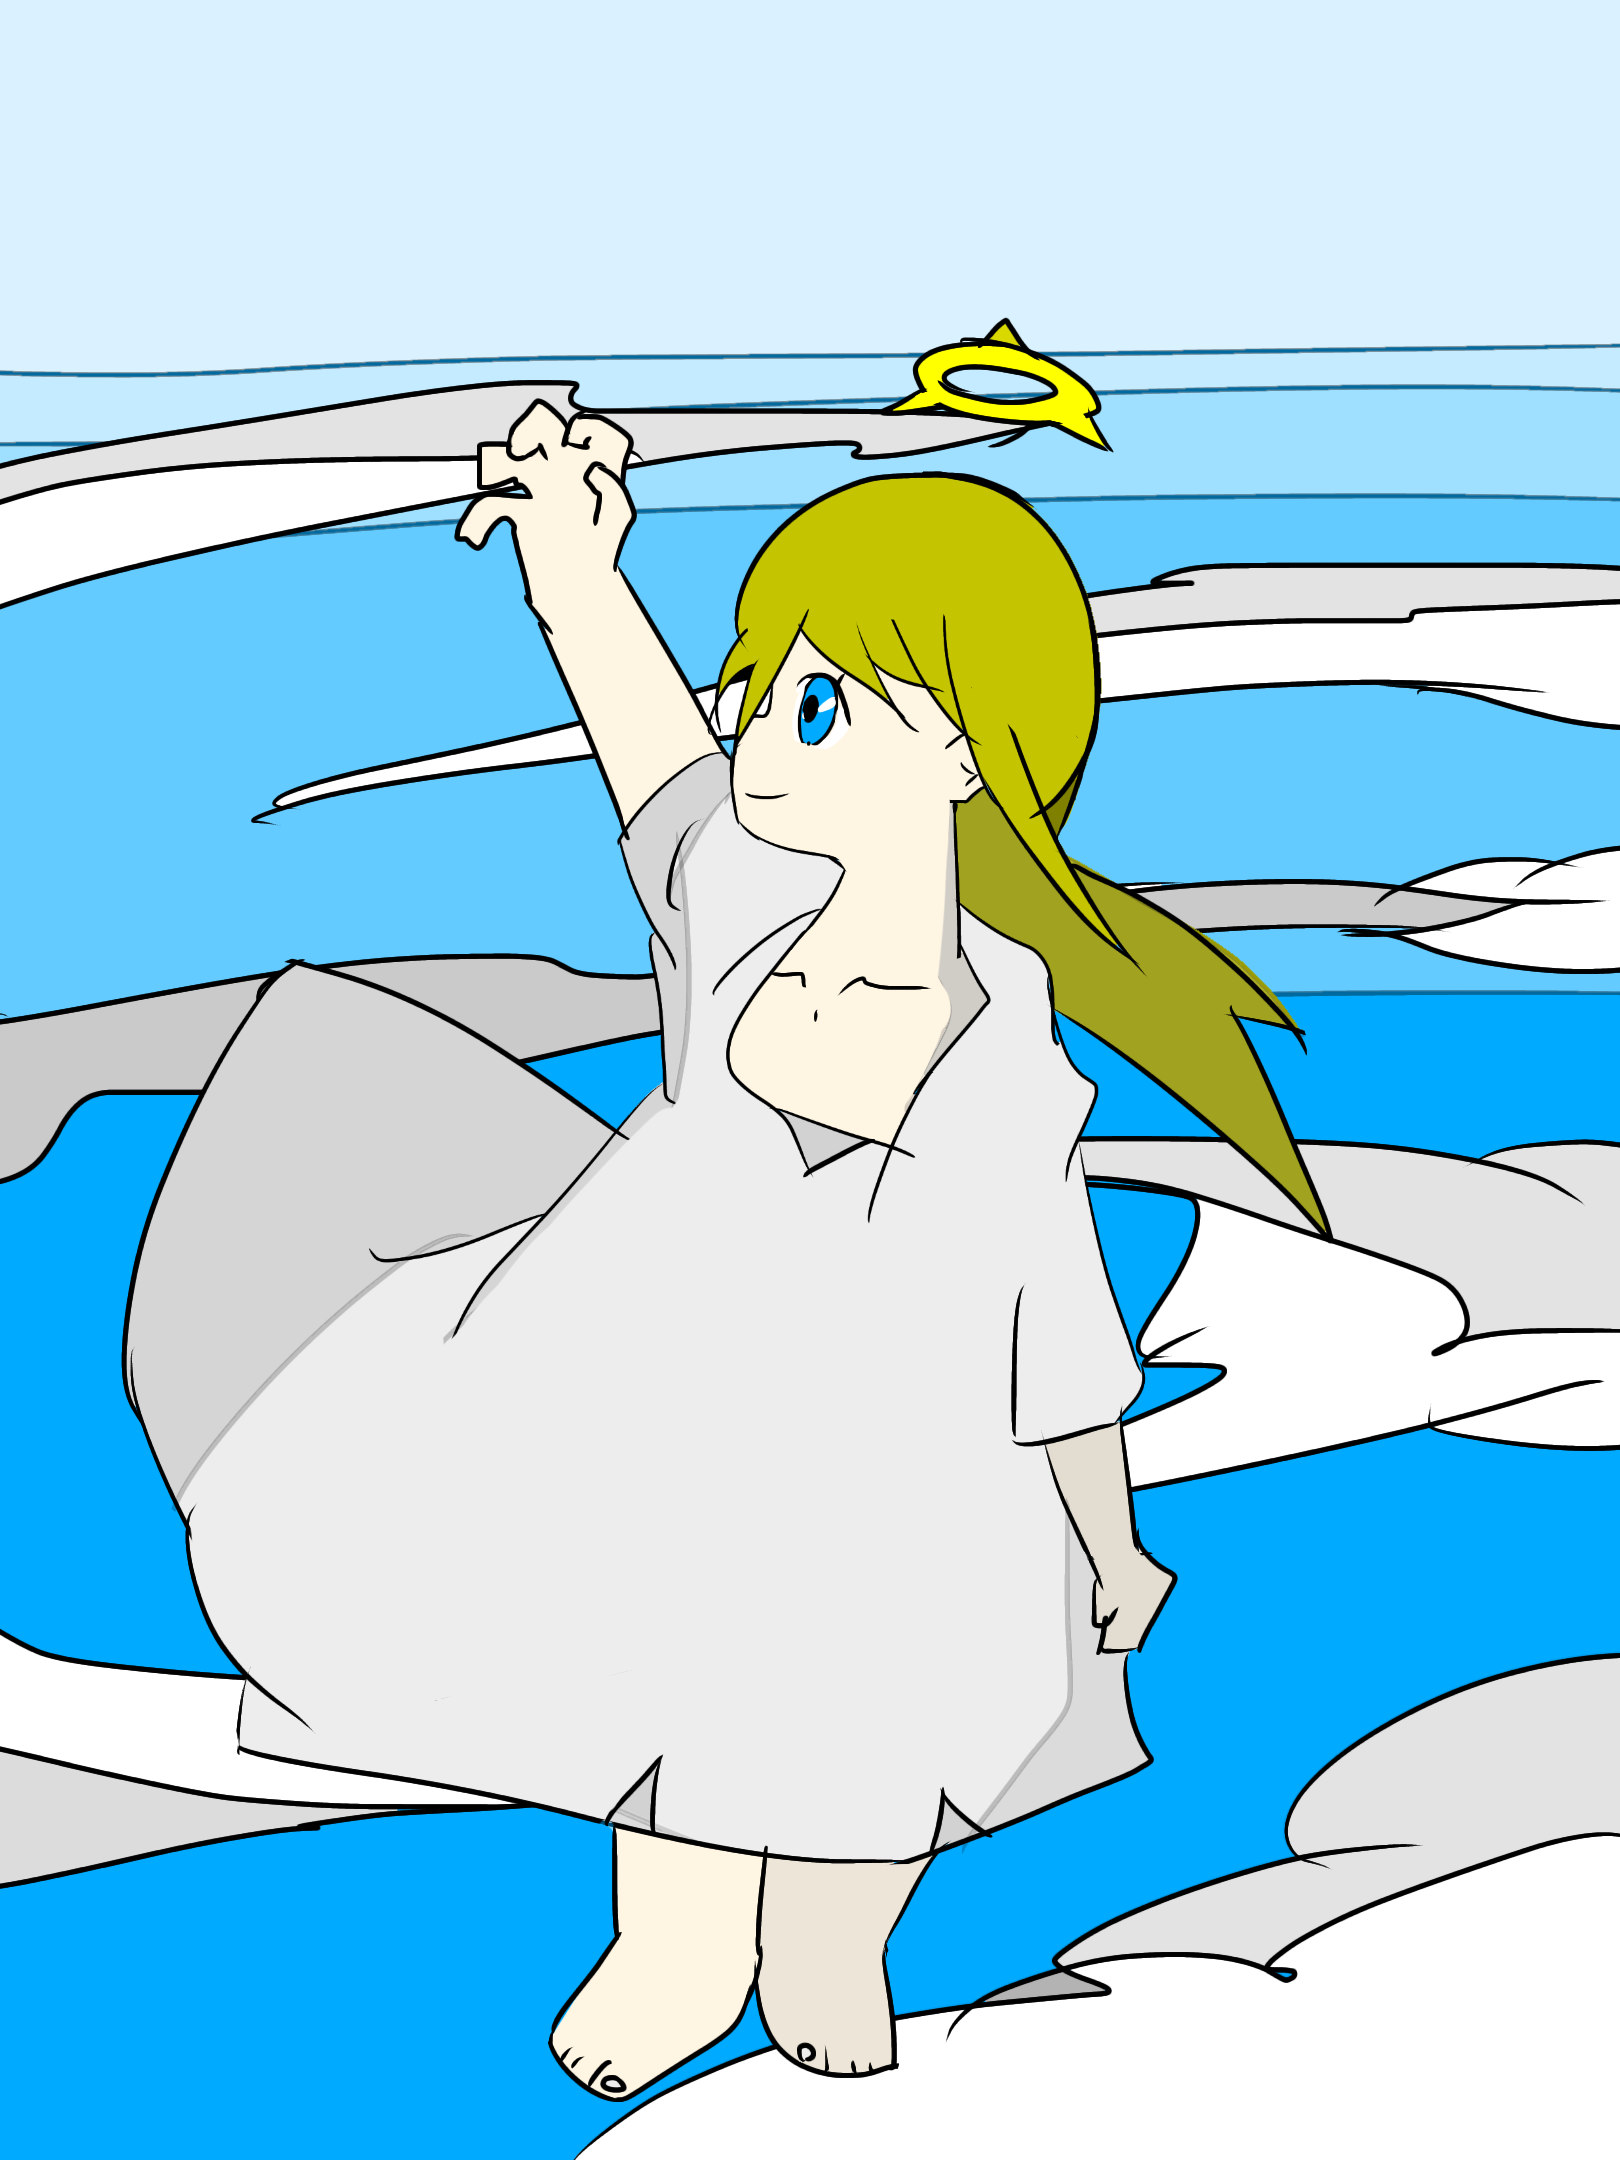
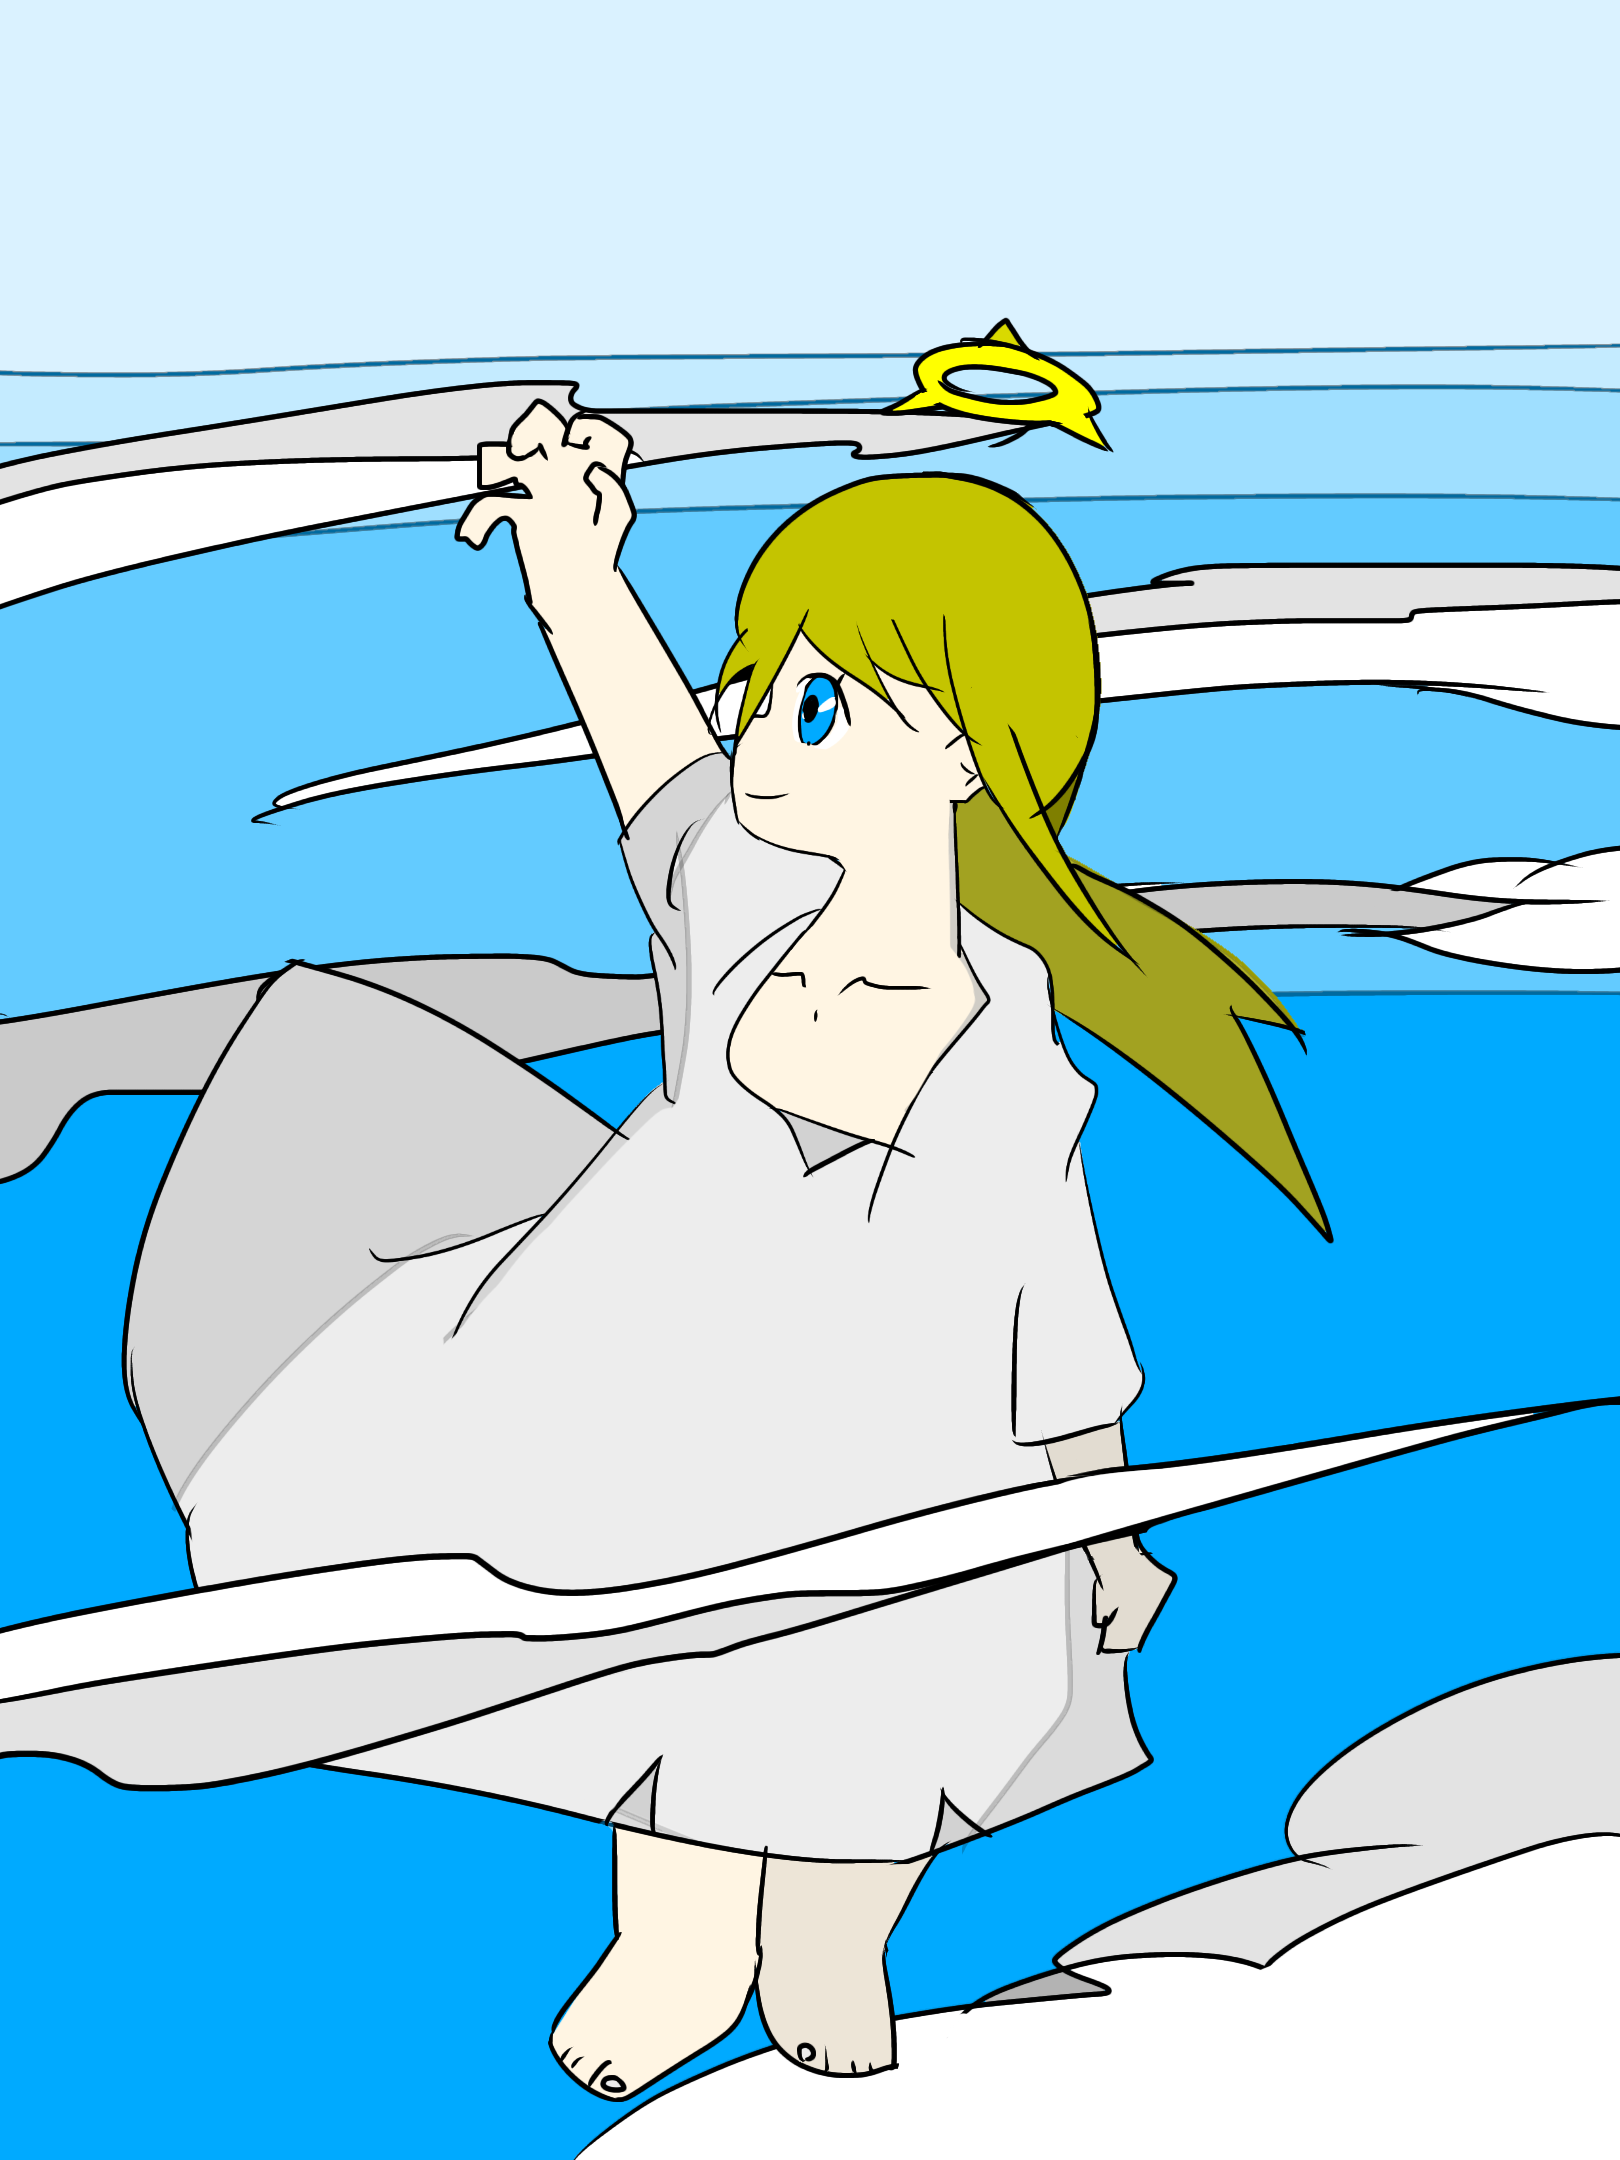
fix

Changed region(s): [[0.0, 0.5273, 1.0, 0.8995], [0.5556, 0.4032, 0.6173, 0.4963], [0.7716, 0.8995, 0.8025, 0.9306]]

diff --git a/layouts/img2/single.html b/layouts/img2/single.html
@@ -31,6 +31,7 @@
 				<a href="/img/yui_24.png"><img src="/img/yui_24.png"></a>
 				<a href="/img/yui_25.png"><img src="/img/yui_25.png"></a>
 				<a href="/img/yui_26.png"><img src="/img/yui_26.png"></a>
+				<a href="/img/yui_27.png"><img src="/img/yui_27.png"></a>
 				<a href="/img/game/i_waza_hadou_01.png"><img src="/img/game/i_waza_hadou_01.png"></a>
 				<a href="/img/game/i_waza_tukimi_01.png"><img src="/img/game/i_waza_tukimi_01.png"></a>
 			</p>

diff --git a/content/blog/2020-07-16-illust.md b/content/blog/2020-07-16-illust.md
@@ -1,0 +1,13 @@
++++
+date = "2020-07-16"
+tags = ["illust"]
+title = "イラスト描いてみた27"
+slug = "illust"
++++
+
+久しぶりに書いてみた。
+
+![](/img/yui_27.png)
+
+[/img](/img/)
+
